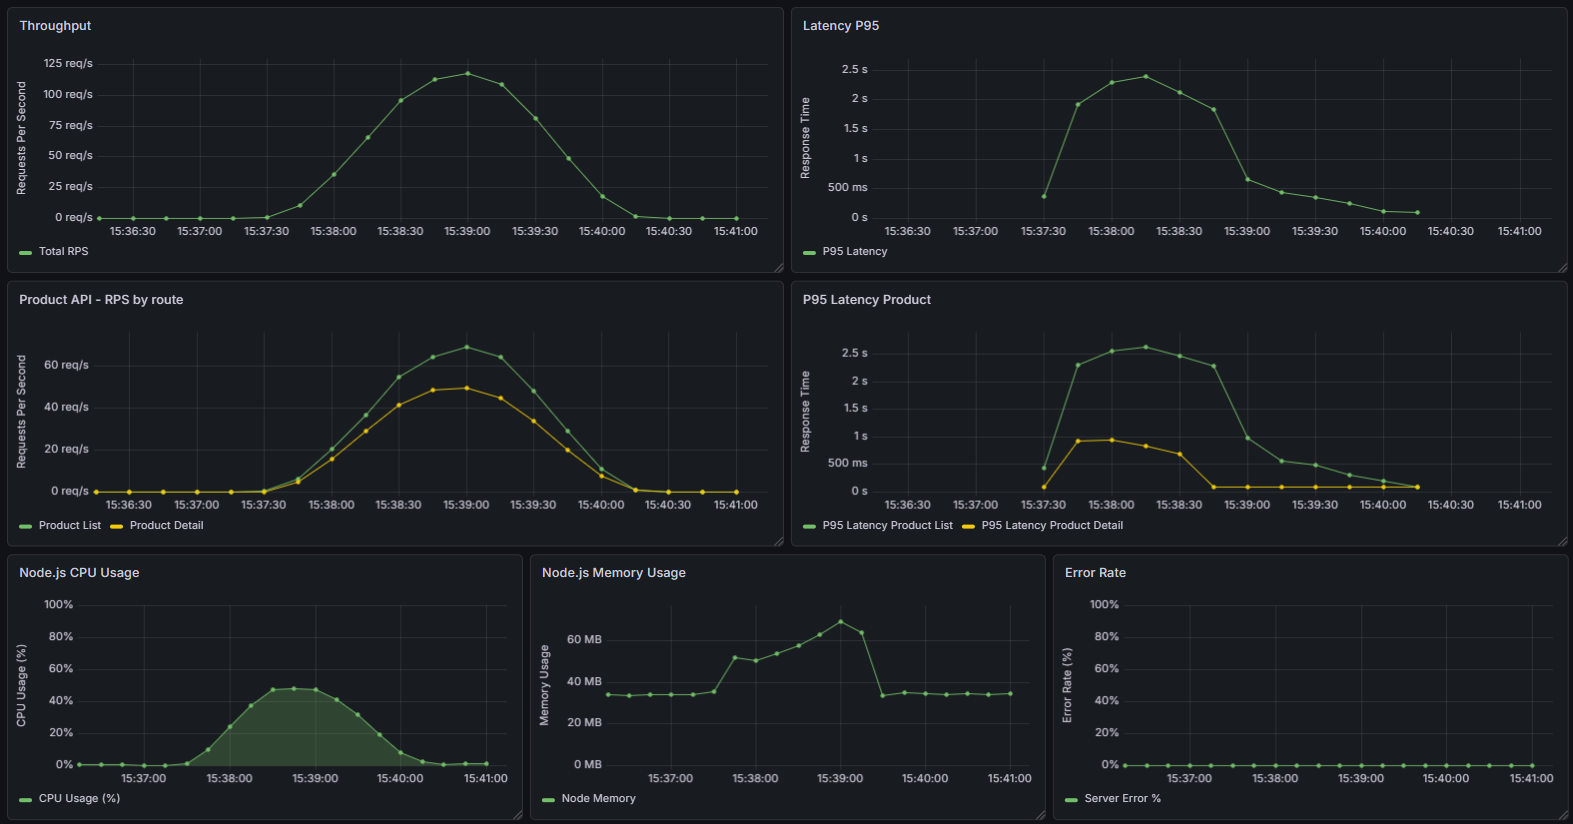
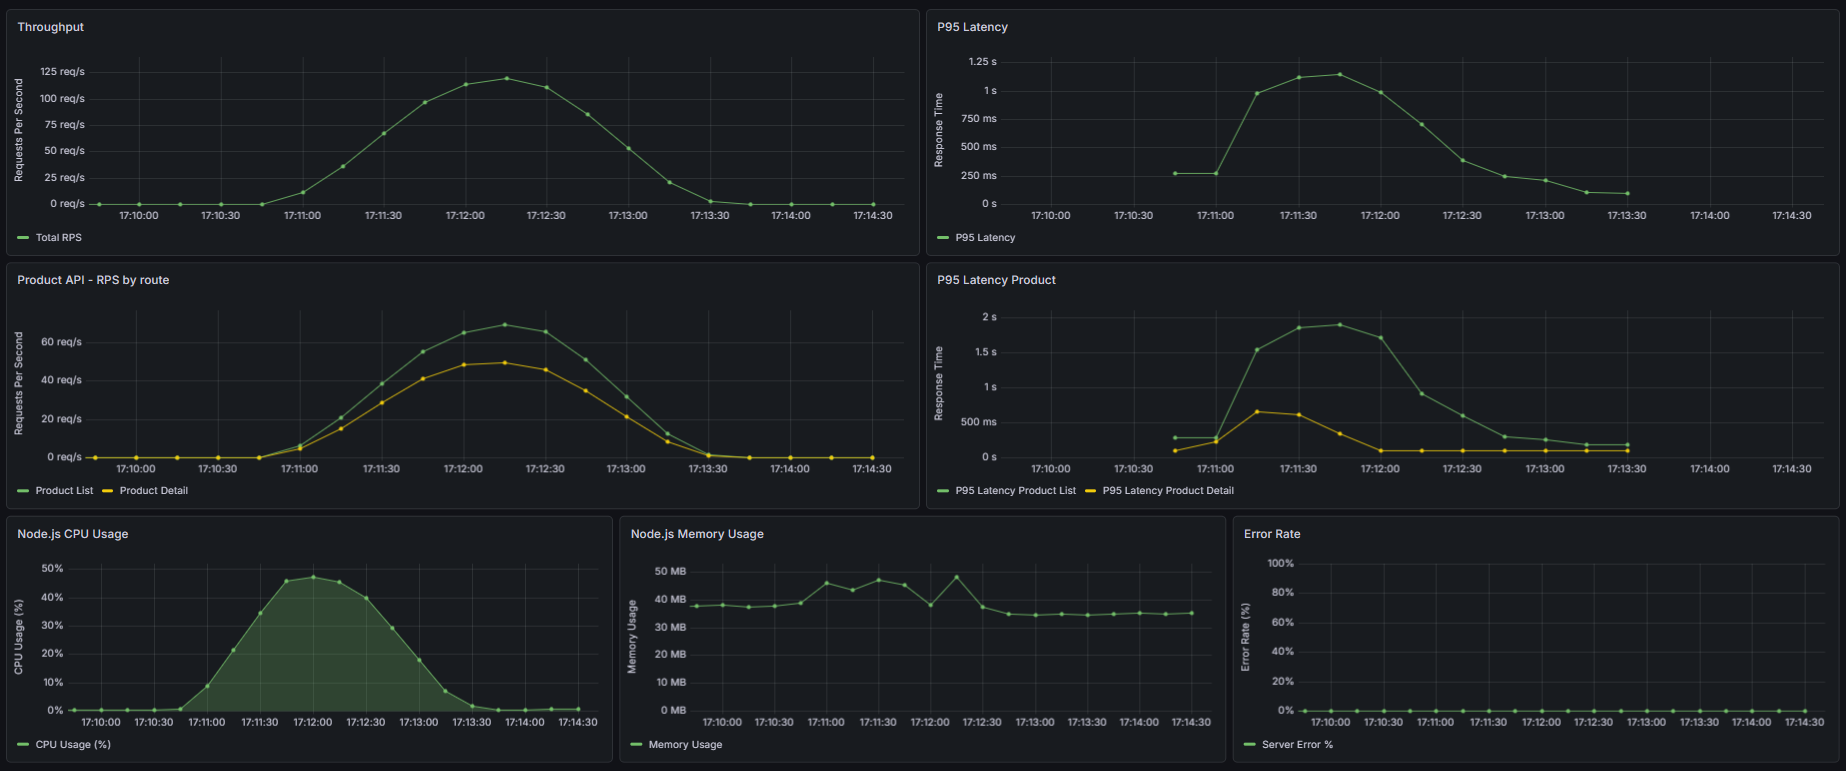
docs(testing): add load test documentation, raw notes, and benchmark assets

diff --git a/backend/tests/load/readme.md b/backend/tests/load/readme.md
@@ -1,0 +1,93 @@
+# ⚡ Performance Benchmarking & Load Testing Report
+
+This directory contains the automated load testing suite for the Multi-Vendor Marketplace backend, powered by **k6**, **Prometheus**, and **Grafana**.
+
+The primary objective is to verify system stability, resource utilization, and database integrity under high-concurrency scenarios (e.g., Flash Sale events).
+
+## 📊 Test Environment & Hardware Specification
+
+- **OS:** Windows 11 / Linux Docker Containers
+- **CPU:** 11th Gen Intel(R) Core(TM) i5-1135G7 @ 2.40GHz (2.42 GHz)
+- **RAM:** 16GB DDR4
+- **Databases:** PostgreSQL (Prisma ORM), Redis (Cache & Rate Limiter)
+
+---
+
+## 🚀 Scenario 1: API Gateway Rate Limiting Defenses
+
+**Objective:** Verify that the system successfully blocks abusive traffic (DDoS/Scraping) and maintains core stability.
+
+### ⚙️ Configuration
+
+- **Script:** `tests/load/rate-limit-test.js`
+- **Load Profile:** High-frequency burst requests targeting public endpoints.
+
+### 📈 Results & Artifacts
+
+- **Total Requests Generated:** 10,023 requests (Average throughput: **~667 req/s**)
+- **Allowed Requests (HTTP 200):** **~2% (200 requests)** — The system accurately allowed only the configured safe threshold to pass through.
+- **Blocked Requests (HTTP 429):** **98.00% (9,823 requests)** — Abusive burst traffic was instantly intercepted and rejected by the Redis-backed Sliding Window Counter.
+- **System Stability (HTTP 500):** **0% (0 requests)** — The server successfully absorbed the spam attack without any internal crashes, timeouts, or memory leaks.
+- **Evidence:**
+
+![Rate Limit Test Grafana Chart](../../assets/rate-limit-test.png)
+
+---
+
+## ⚡ Scenario 2: Redis Caching Efficiency Benchmark
+
+**Objective:** Measure the impact of the Redis cache-aside pattern on read-heavy operations (`GET /products` and `GET /products/:slug`) regarding latency and Database CPU relief.
+
+### ⚙️ Configuration
+
+- **Script:** `tests/load/redis-cache-test.js`
+- **Load Profile:** Ramping up to **250 Maximum VUs** (150 VUs browsing lists, 100 VUs viewing details) over a 2-minute duration.
+- **Comparison:** Running the exact same load profile with Cache Disabled (Direct DB queries) vs. Cache Enabled (Redis Hit).
+
+### 📈 Metrics Comparison
+
+| Metric                        | Cache Disabled (Direct DB) | Cache Enabled (Redis Hit)        | Impact / Improvement              |
+| :---------------------------- | :------------------------- | :------------------------------- | :-------------------------------- |
+| **Total Requests Processed**  | 3,419 requests (~28 req/s) | **10,770 requests** (~89 req/s)  | **Throughput increased by >315%** |
+| **P95 Latency (View Detail)** | 5.3s                       | **59.3ms**                       | **Slashed by ~98.8%**             |
+| **P95 Latency (Overall)**     | 9.91s                      | **826.53ms**                     | Massive system-wide stabilization |
+| **Max Latency**               | 12.5s                      | **5.01s** _(Initial cache miss)_ | Reduced queue bottleneck          |
+
+### 🖼️ Evidence
+
+- **Cache Disabled (Database Bottleneck):**
+
+  ![Cache Disabled Chart](../../../backend/assets/benchmarks/redis-cache-disabled.png)
+
+- **Cache Enabled (High Performance):**
+
+  ![Cache Enabled Chart](../../../backend/assets/benchmarks/redis-cache-enabled.png)
+
+---
+
+## 🛒 Scenario 3: High-Concurrency Mixed Workload (Flash Sale Simulation)
+
+**Objective:** Simulate a realistic, intense E-commerce transaction funnel where multiple users concurrently browse, add items to carts, and execute checkout transactions while sellers concurrently update stock.
+
+### ⚙️ Configuration
+
+- **Script:** `tests/load/mixed-workload-test.js`
+- **Load Profile:** Ramping up to **93 Maximum VUs** over a 2-minute duration.
+- **Traffic Distribution:** 40% Browse, 30% View Details, 20% Shopping Flow (Add + Checkout), 5% Search, 5% Seller Updates.
+
+### 📈 Core Performance Metrics
+
+- **Total Requests Executed:** 3,104 requests (~25.14 requests/second)
+- **HTTP Request Failure Rate:** **0.12%** (Only 4 requests failed out of 3104)
+- **Checkout Success Rate:** **97%** (136 successful orders created atomically)
+- **Database Deadlocks:** **0** (Eliminated via Ordered Locking implementation)
+- **Median Latency (Read Operations):** **5.67ms** (Stabilized via Redis)
+
+### 🖼️ System Health Metrics (Grafana Dashboard)
+
+![Mixed Workload Performance Analytics](../../assets/load-test-mixed-workload-metrics.png)
+
+### 🧠 Architectural Key Takeaways
+
+1. **Deadlock Elimination:** Initial runs triggered PostgreSQL `40P01` deadlocks due to concurrent row-locking on product stock updates. Resolved by implementing a strict **Two-level Ordered Locking mechanism** (sorting Shop IDs, then Product IDs alphabetically) within Prisma transactions.
+2. **Connection Pool Optimization:** Fixed `Transaction API error: Unable to start a transaction in the given time` by nới rộng `connection_limit=50` trong database URL và tinh chỉnh cấu hình `maxWait: 10000` cho Prisma Client.